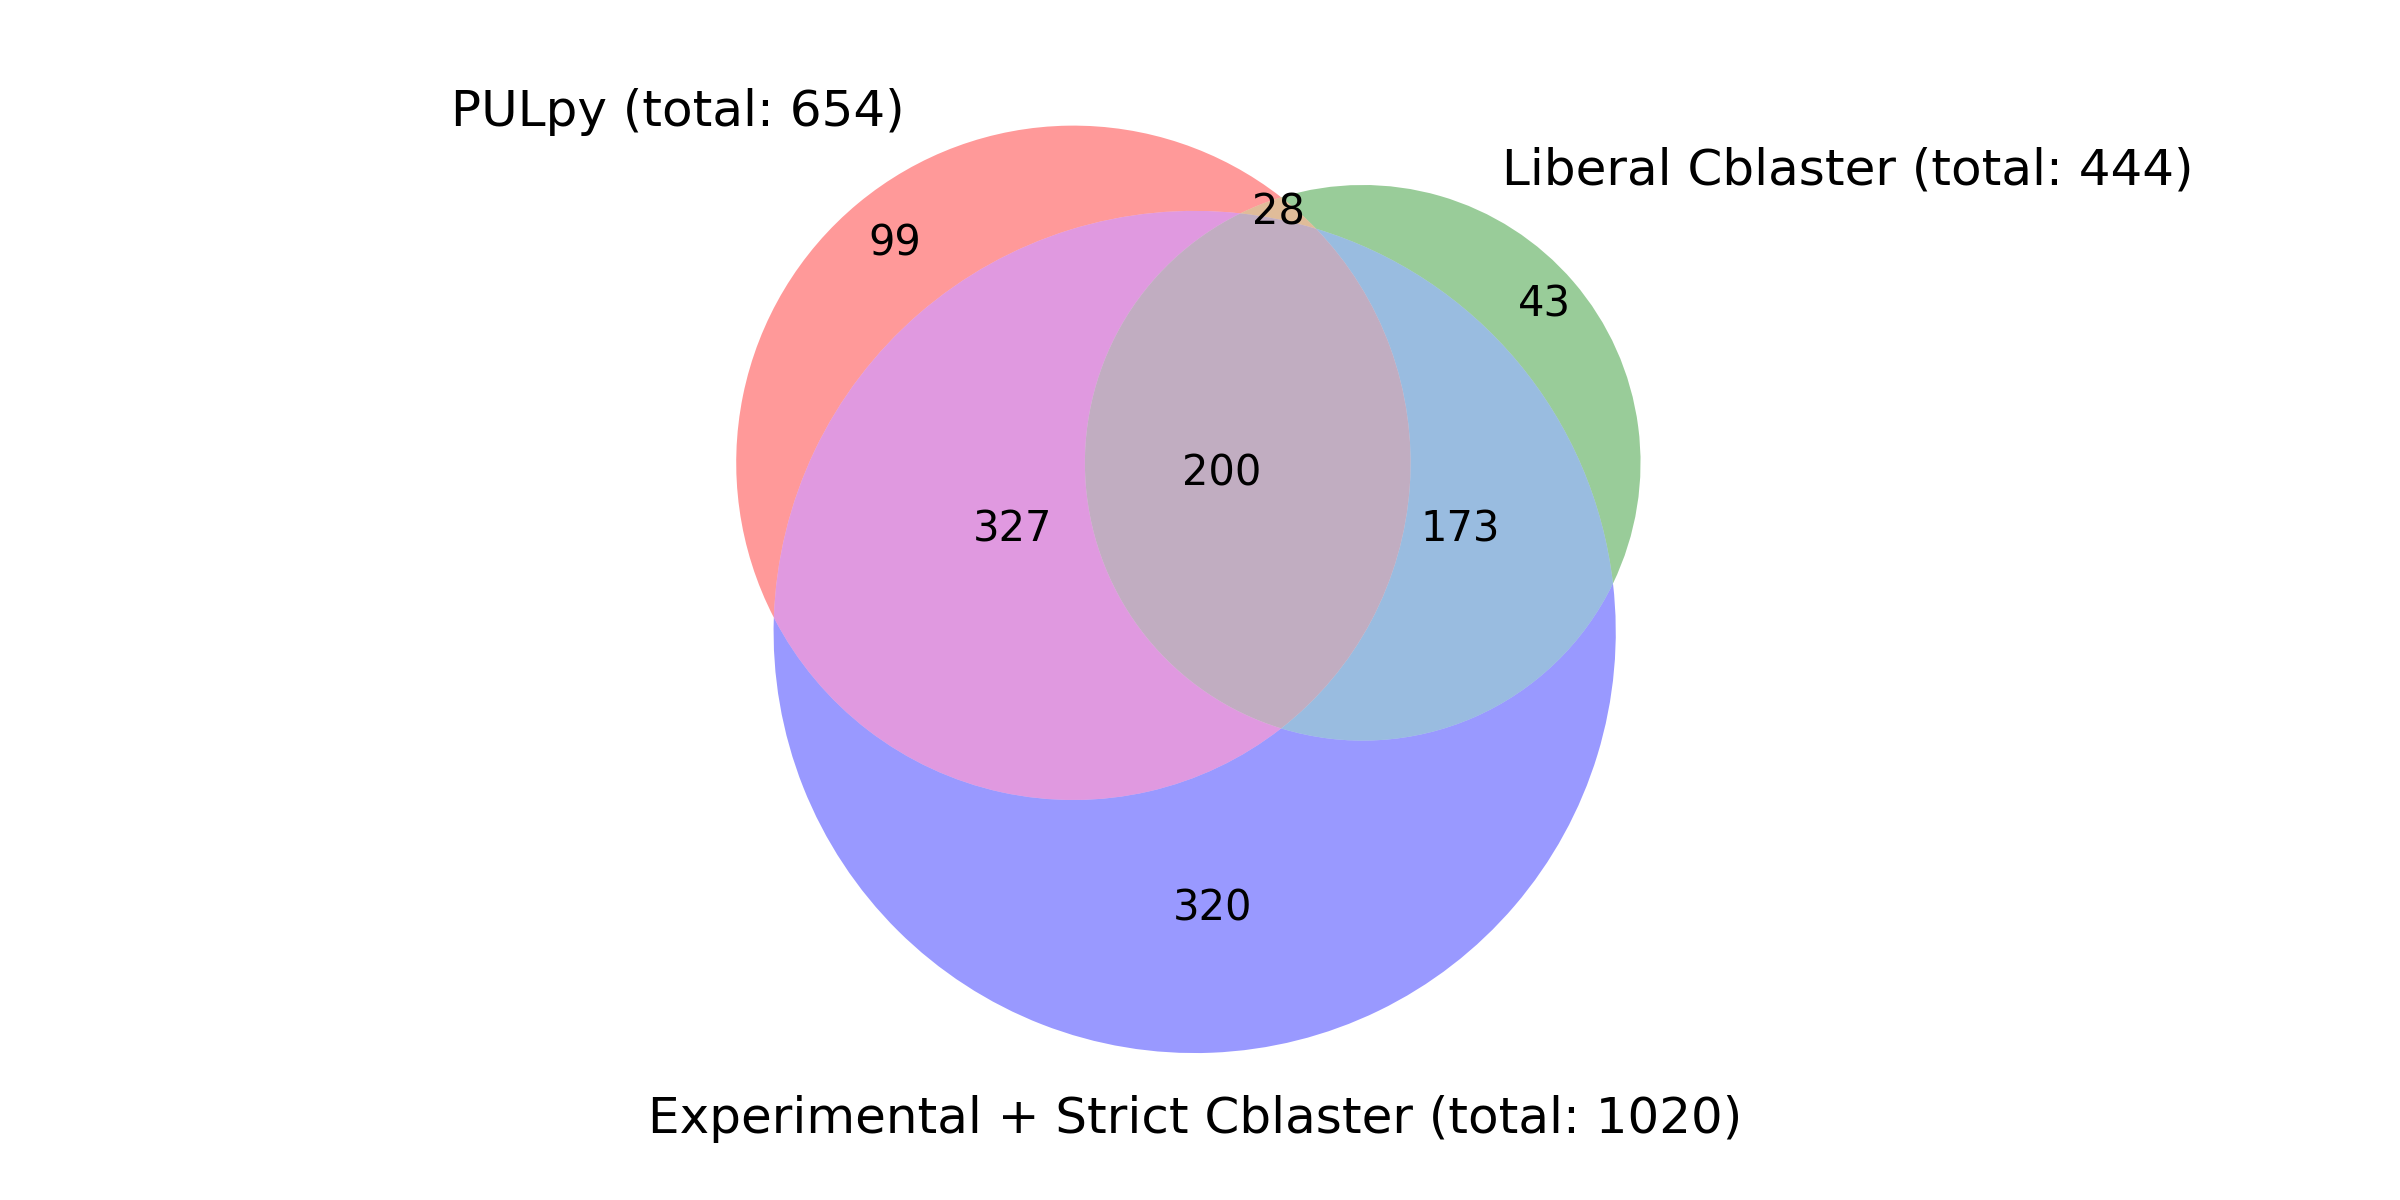
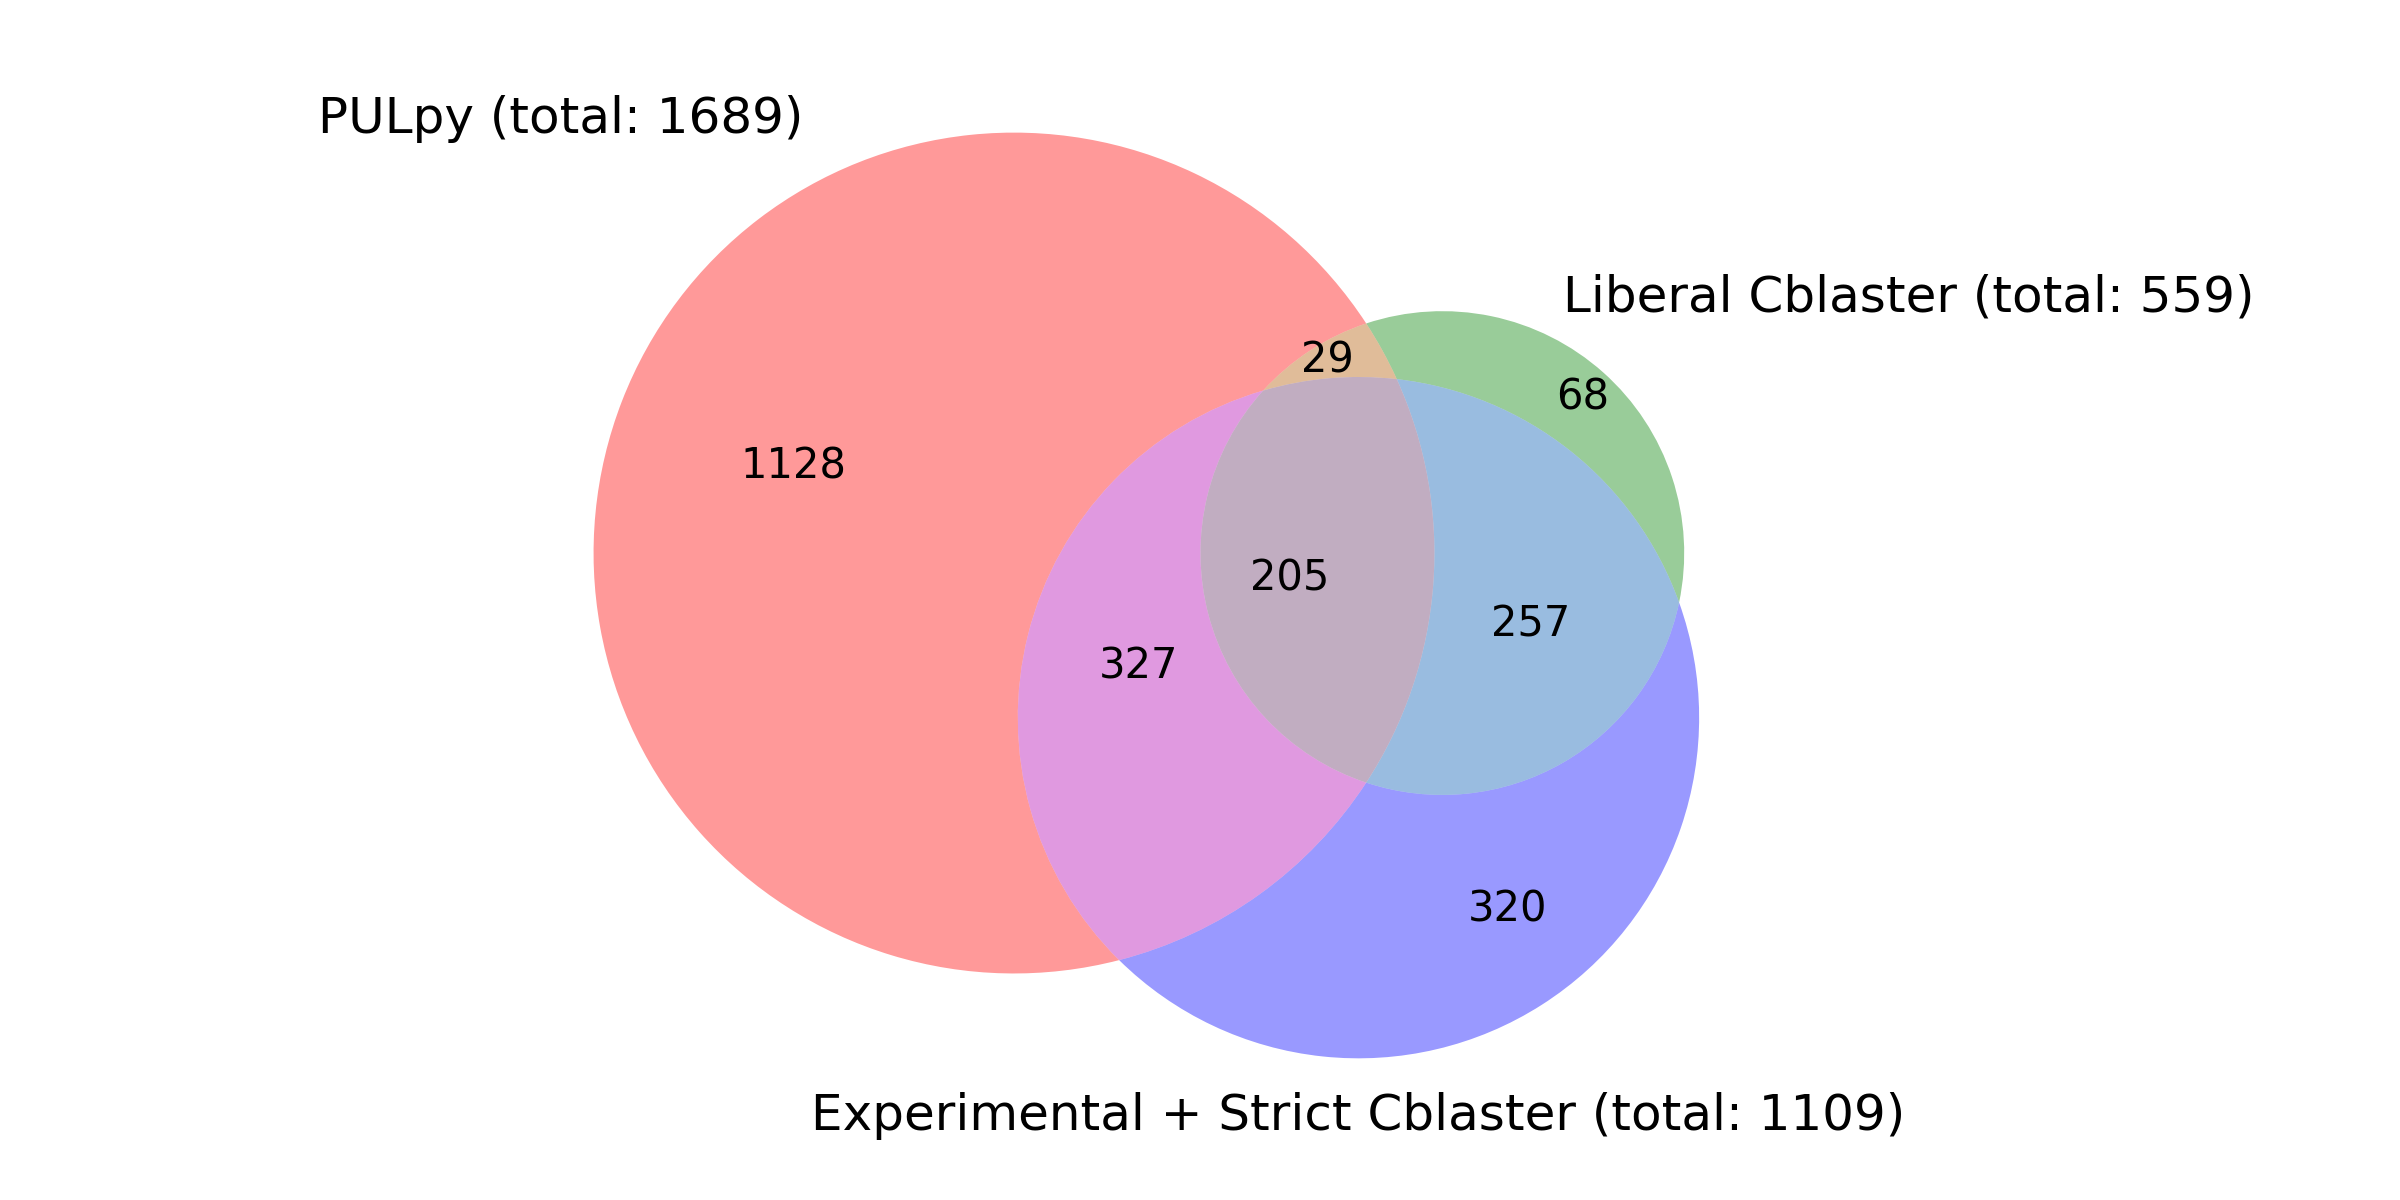
fix venn diagram bug

Changed region(s): [[0.125, 0.0617, 0.9375, 0.9558], [0.625, 0.1233, 0.9062, 0.1542]]

diff --git a/src/scripts/visualization/cryptic_puls_plots.py b/src/scripts/visualization/cryptic_puls_plots.py
@@ -225,12 +225,13 @@ def plot_pul_overlap(all_puls, pulpy, cblaster_results_liberal):
         polars.lit('pulpy').is_in(polars.col("databases")).alias("has_pulpy"),
         polars.lit('cblaster').is_in(polars.col("databases")).alias("has_cblaster"),
         polars.lit('experimental').is_in(polars.col("databases")).alias("has_experimental"),
+        polars.concat_str([polars.col("cluster_id"), polars.col("sequence_id")]).alias("cluster_id_unique") # concat ids to make unique labels
     )
+
     # plot Venn diagram of overlap between databases
-    # TODO: might be error with PULpy cluster ids not being unique!!!
-    pulpy_puls = set(merged_puls.filter(polars.col("has_pulpy") == True).select("cluster_id").to_series().to_list())
-    cblaster_liberal_puls = set(merged_puls.filter(polars.col("has_cblaster") == True).select("cluster_id").to_series().to_list())
-    experimental_puls = set(merged_puls.filter(polars.col("has_experimental") == True).select("cluster_id").to_series().to_list())
+    pulpy_puls = set(merged_puls.filter(polars.col("has_pulpy") == True).select("cluster_id_unique").to_series().to_list())
+    cblaster_liberal_puls = set(merged_puls.filter(polars.col("has_cblaster") == True).select("cluster_id_unique").to_series().to_list())
+    experimental_puls = set(merged_puls.filter(polars.col("has_experimental") == True).select("cluster_id_unique").to_series().to_list())
 
     fig, ax1 = plt.subplots(figsize=(8, 4))
     venn3(
